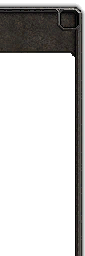
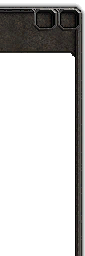
Added Hide variant for PanelButton Changed cursor to Hand over PanelButton

Changed region(s): [[0.3765, 0.0312, 0.6824, 0.125]]

diff --git a/src/GuardianRP.Launcher.UI/Control/PanelButton.xaml b/src/GuardianRP.Launcher.UI/Control/PanelButton.xaml
@@ -5,7 +5,7 @@
              xmlns:d="http://schemas.microsoft.com/expression/blend/2008" 
              xmlns:local="clr-namespace:GuardianRP.Launcher.UI.Control"
              mc:Ignorable="d" 
-             d:DesignHeight="300" d:DesignWidth="300" Width="30" Height="30" MouseDown="OnMouseDown" MouseUp="OnMouseUp">
+             d:DesignHeight="300" d:DesignWidth="300" Width="30" Height="30" MouseDown="OnMouseDown" MouseUp="OnMouseUp" Loaded="OnLoaded" Cursor="Hand">
     <Viewbox StretchDirection="Both" Stretch="Uniform">
         <Image x:Name="ImageButton" HorizontalAlignment="Left" Height="30" Margin="0" VerticalAlignment="Top" Width="30" Source="/GuardianRP.Launcher.UI;component/Resources/PanelButtonExit.PNG" Stretch="None"/>
     </Viewbox>

diff --git a/src/GuardianRP.Launcher/LauncherWindow.xaml b/src/GuardianRP.Launcher/LauncherWindow.xaml
@@ -46,6 +46,7 @@
         </VisualBrush>
     </Window.Resources>
     <Grid Background="{StaticResource BackgroundBrush}" x:Name="InterGrid">
-        <Control:PanelButton Margin="737,3,1,479" MouseLeftButtonUp="OnExitButtonClicked"/>
+        <Control:PanelButton Margin="737,3,1,479" MouseLeftButtonUp="OnExitButtonClicked" Variant="Exit"/>
+        <Control:PanelButton HorizontalAlignment="Left" Margin="713,3,0,0" VerticalAlignment="Top" Variant="Hide" MouseLeftButtonUp="OnHideClicked"/>
     </Grid>
 </Window>

diff --git a/src/GuardianRP.Launcher.UI/Control/PanelButton.xaml.cs b/src/GuardianRP.Launcher.UI/Control/PanelButton.xaml.cs
@@ -18,7 +18,8 @@ namespace GuardianRP.Launcher.UI.Control {
     public partial class PanelButton : UserControl {
 
         public enum Variants {
-            Exit
+            Exit,
+            Hide
         }
 
         public static Dictionary<Variants, BitmapFrame[]> Textures = new Dictionary<Variants, BitmapFrame[]>() {
@@ -27,6 +28,13 @@ namespace GuardianRP.Launcher.UI.Control {
                     BitmapFrame.Create(new Uri("pack://application:,,,/GuardianRP.Launcher.UI;component/Resources/PanelButtonExit.PNG")),
                     BitmapFrame.Create(new Uri("pack://application:,,,/GuardianRP.Launcher.UI;component/Resources/PanelButtonExitDown.PNG")),
                     BitmapFrame.Create(new Uri("pack://application:,,,/GuardianRP.Launcher.UI;component/Resources/PanelButtonExitDisabled.PNG"))
+                }
+            },
+            {
+                Variants.Hide, new BitmapFrame[] {
+                    BitmapFrame.Create(new Uri("pack://application:,,,/GuardianRP.Launcher.UI;component/Resources/PanelButtonHide.PNG")),
+                    BitmapFrame.Create(new Uri("pack://application:,,,/GuardianRP.Launcher.UI;component/Resources/PanelButtonHideDown.PNG")),
+                    BitmapFrame.Create(new Uri("pack://application:,,,/GuardianRP.Launcher.UI;component/Resources/PanelButtonHideDisabled.PNG"))
                 }
             }
         };
@@ -61,6 +69,9 @@ namespace GuardianRP.Launcher.UI.Control {
 
         public PanelButton() {
             InitializeComponent();
+        }
+
+        private void OnLoaded(object sender, RoutedEventArgs e) {
             UpdateImage(); // Initial draw
         }
 
@@ -69,14 +80,15 @@ namespace GuardianRP.Launcher.UI.Control {
         }
 
         private void OnMouseDown(object sender, MouseButtonEventArgs e) {
-           IsPressed = e.LeftButton == MouseButtonState.Pressed;
-           CaptureMouse();
+            IsPressed = e.LeftButton == MouseButtonState.Pressed;
+            CaptureMouse();
         }
 
         private void OnMouseUp(object sender, MouseButtonEventArgs e) {
             IsPressed = e.LeftButton == MouseButtonState.Pressed;
             Mouse.Capture(null);
         }
+
     }
 
 }

diff --git a/src/GuardianRP.Launcher/LauncherWindow.xaml.cs b/src/GuardianRP.Launcher/LauncherWindow.xaml.cs
@@ -23,7 +23,7 @@ namespace GuardianRP.Launcher {
             // Create bar at the top of the window that allows it to be dragable
             // It is declared here to prevent the bar getting in my way while using designer
             Rectangle TopBar = new Rectangle();
-            TopBar.Width = Width - 38;
+            TopBar.Width = Width - 64;
             TopBar.Height = 40;
             TopBar.Margin = new Thickness(8, 8, 0, 0);
             TopBar.HorizontalAlignment = HorizontalAlignment.Left;
@@ -38,6 +38,10 @@ namespace GuardianRP.Launcher {
 
         private void OnExitButtonClicked(object sender, MouseButtonEventArgs e) {
             Application.Current.Shutdown();
+        }
+
+        private void OnHideClicked(object sender, MouseButtonEventArgs e) {
+            WindowState = WindowState.Minimized;
         }
 
     }
